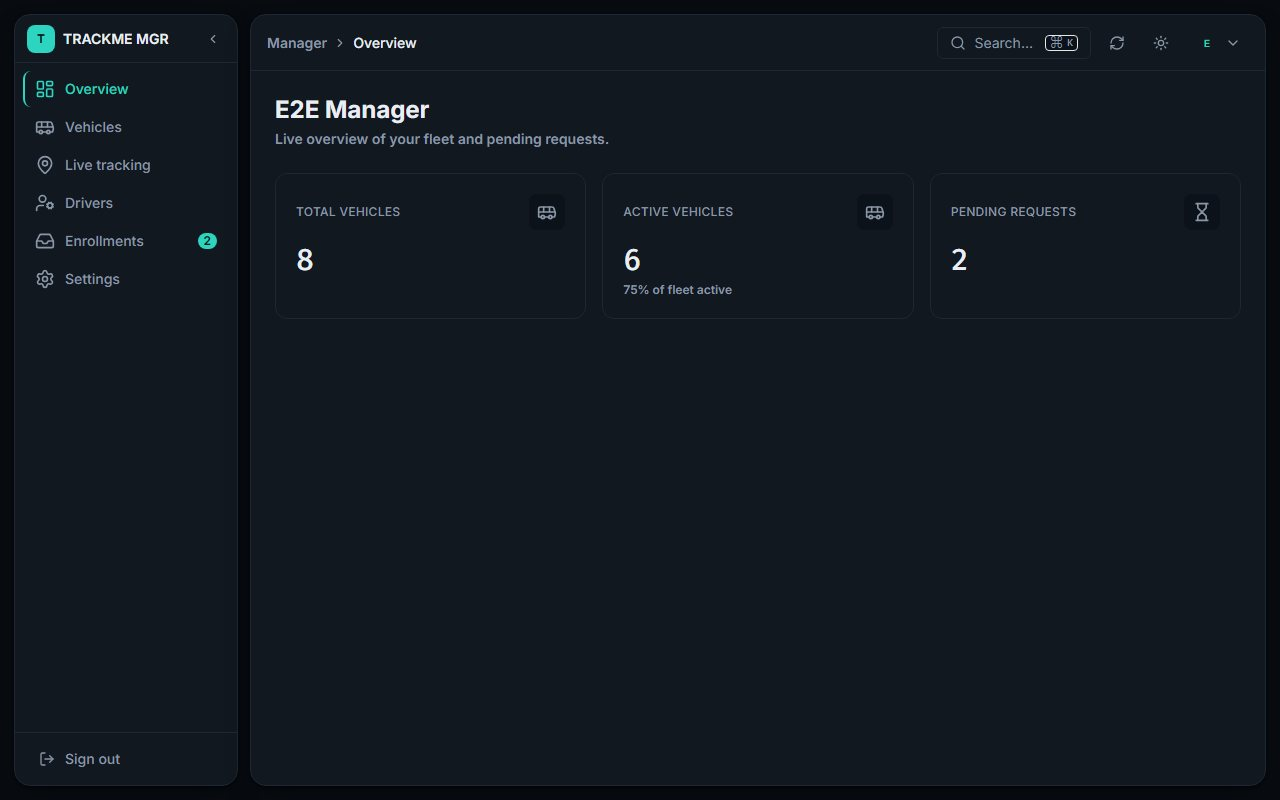
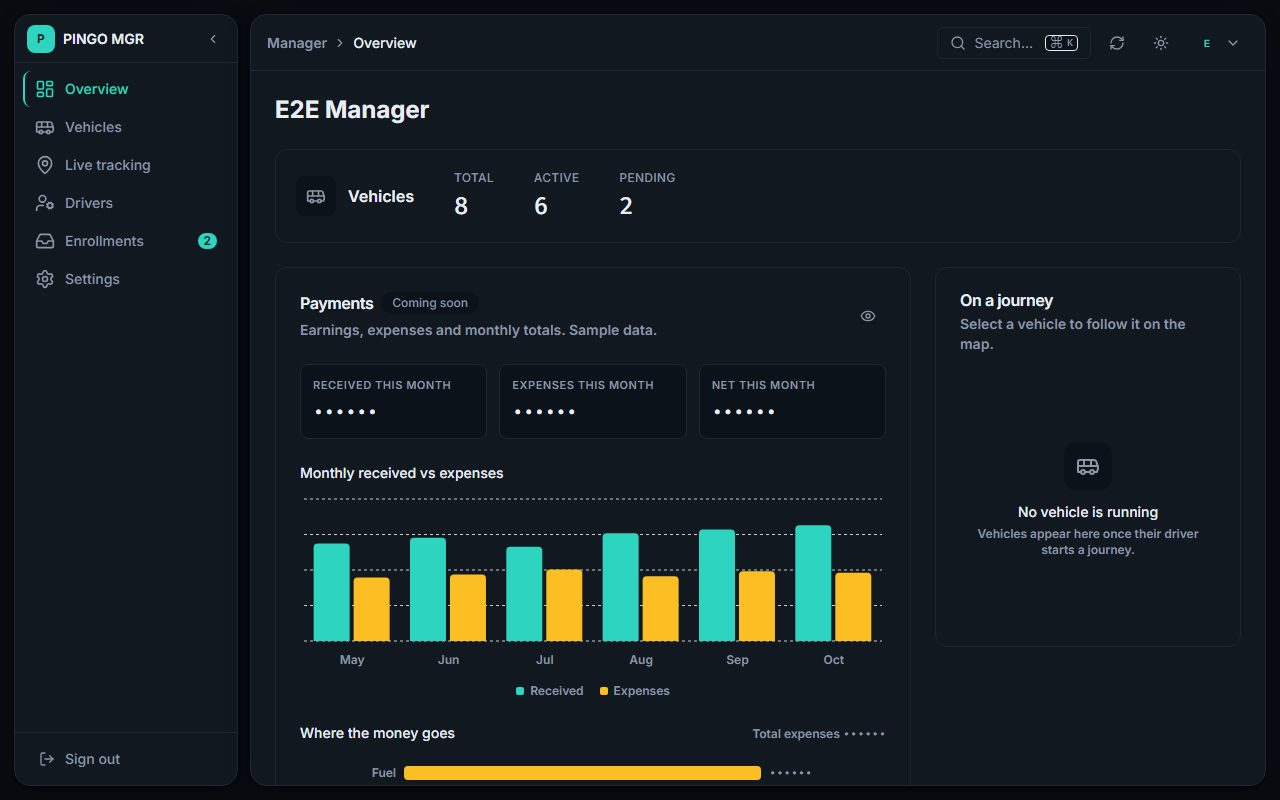
feat(landing): the laptop shows the current PinGo portal
Retook the four portal captures (overview, vehicles, drivers, enrollments) from the current portal;
they showed the old TrackMe design. Phone screens are still drawn in code: the rider app has no
screenshots in its repo.

diff --git a/docs/modules/LANDING.md b/docs/modules/LANDING.md
@@ -1,6 +1,6 @@
 # LANDING — Web Admin
 
-> **Brand:** the public site is called **Pingo** (it was TrackMe). The manager portal behind `/login` and the real captures of it in `public/landing/portal-*.jpg` still say TrackMe until the portal itself is renamed; re-take the captures then.
+> **Brand:** the public site is called **Pingo**, and so is the manager portal now ("PinGo"). The captures of the portal in `public/landing/portal-*.jpg` were retaken on 2026-10-26 from the current portal and show the current design.
 
 The public marketing page at `/`: what TrackMe is, how it works for riders and fleet managers, and
 where a rider or a driver goes next.
@@ -68,7 +68,7 @@ icon-in-a-box grids, and paragraphs of copy. (The one glass element is the float
 | `scripts/check-landing-budget.mjs` | `npm run check:landing-budget` after a build: fails if the landing chunk exceeds 120 KB gzipped. |
 | `src/hooks/use-media-query.js` | `useMediaQuery(query)`, used to pick the compact (phone) story layout and the phone-only animations. |
 | `public/landing/hero.mp4`, `hero-tall.mp4`, `hero-*.webp` | The hero clips, both cut from the 4K source: **1920x1080 at 5 Mbps (9 MB)** and a **810x1440 portrait cut at 3.4 Mbps (6 MB)** that follows the bus, each with a `poster` (the first frame, shown while it loads) and a `still` (used instead of the video for reduced motion), as WebP. See §6 for how they were made and the footage's licence/brand caveat. |
-| `public/landing/portal-*.jpg` | Real captures of the manager portal in dark mode, taken from the E2E mock data (not real fleets). Re-take them if the portal's look changes. |
+| `public/landing/portal-*.jpg` | Real captures of the current manager portal in dark mode (overview, vehicles, drivers, enrollments; 1280x800), taken from the E2E mock data (not real fleets or people). To retake: a throwaway Playwright spec that sets `localStorage['webadmin-color-mode']='dark'`, calls `loginAsManager`, `mockManagerBackend` and `mockManagerPortalData` from `e2e/helpers.ts`, opens `/manager/dashboard`, `/manager/vehicles`, `/manager/accounts` and `/manager/requests`, waits 3.5s and saves JPEG screenshots (live tracking is left out: with no live stream its map is empty). Retake them when the portal's look changes. The phone screens are still drawn in code: the rider app is not part of this repo. |
 
 ## 3. Data flow
 

diff --git a/docs/CHANGES.md b/docs/CHANGES.md
@@ -18,6 +18,14 @@ when source under `src/` changed. One entry per session/PR is enough.
 - **Follow-ups / known issues:** <or "none">
 ```
 
+## 2026-10-26 — Landing: the laptop shows the current PinGo portal
+- **Branch:** feature/landing-journey
+- **Modules touched:** [LANDING](modules/LANDING.md)
+- **What changed:** retook the four portal captures the laptop cycles through (`public/landing/portal-overview|vehicles|drivers|enrollments.jpg`) from the current PinGo portal (they showed the old TrackMe design). Overview, vehicles, drivers and enrollments, from the E2E mock data.
+- **Why:** the laptop in "How it works" should show the real app. The phone screens are still drawn in code: the rider app is a separate project and has no screenshots in its repo.
+- **Contract impact:** none. **Tests:** none needed (images only; the existing `PortalScreen` tests use the same file names and alt text). **Docs updated:** `modules/LANDING.md`.
+- **Follow-ups:** phone screens need real screenshots of the rider app (live map, join with a key, riders); they would go in as images inside the phone frame.
+
 ## 2026-10-19 — Manager portal link on the landing nav; driver password in the Drivers directory
 - **Branch:** feat/manager-portal-nav-main (rebased onto origin/main)
 - **Modules touched:** [LANDING](modules/LANDING.md), [ACCOUNTS](modules/ACCOUNTS.md)
